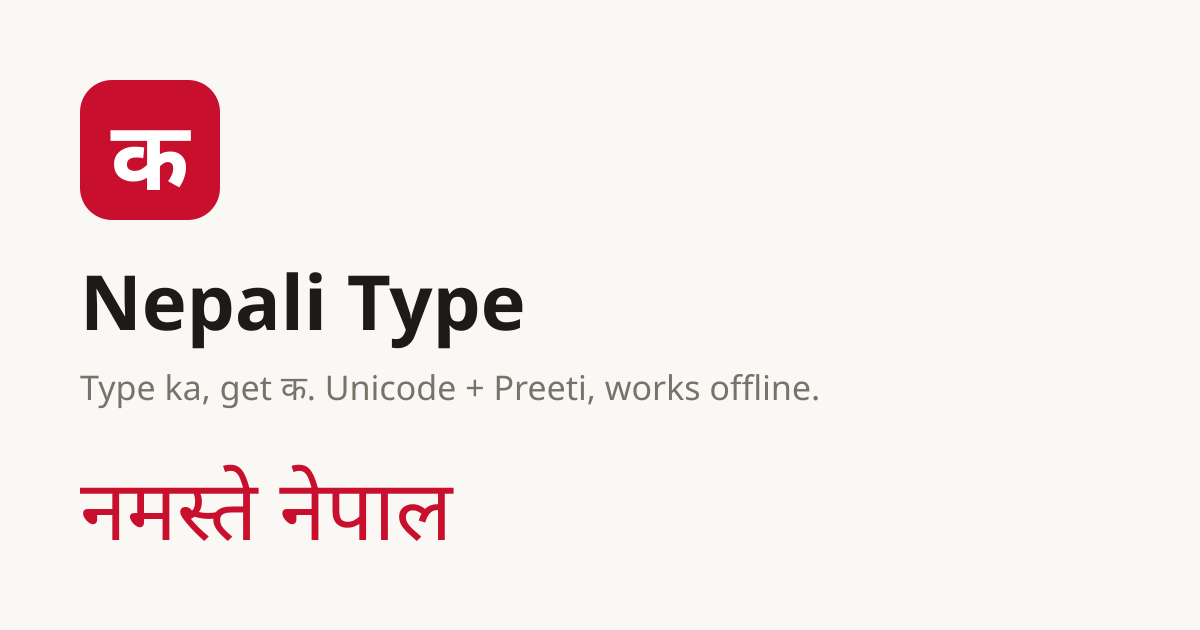
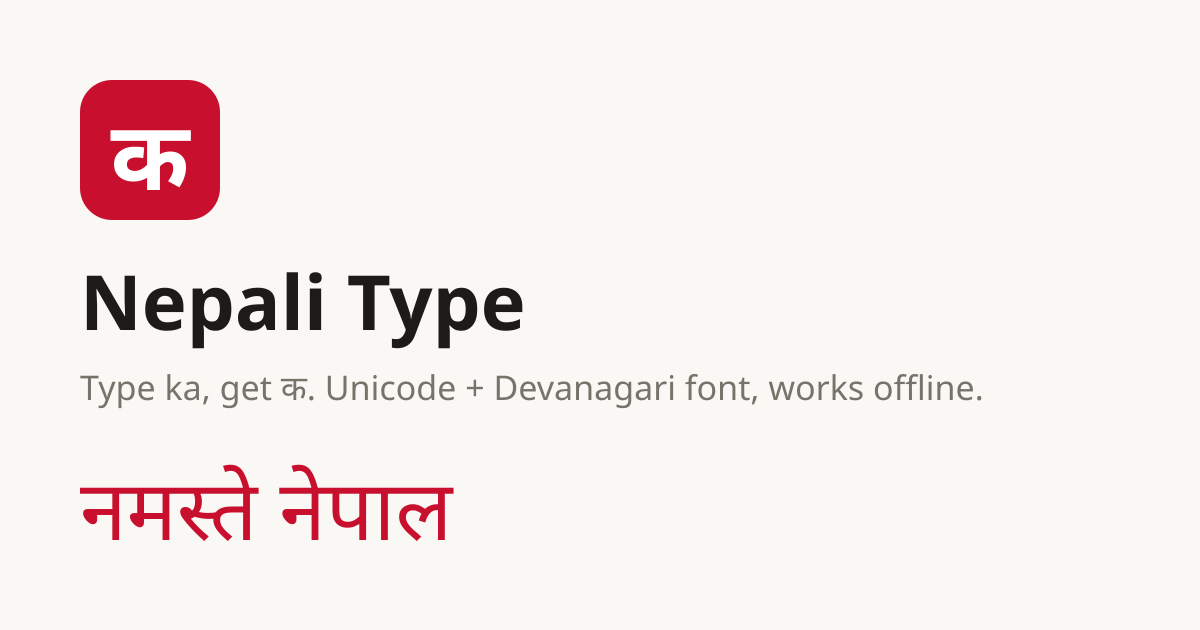
Add movable cursor to font keys mode; call it Devanagari font

Changed region(s): [[0.4008, 0.573, 0.8325, 0.6635]]

diff --git a/src/scripts/app.js b/src/scripts/app.js
@@ -20,6 +20,8 @@ const buzz=matchMedia("(pointer:coarse)").matches&&navigator.vibrate?()=>{try{na
 let mode=store.get("nw-mode")==="preeti"?"preeti":"roman";
 const fine=matchMedia("(pointer:fine)").matches;
 let buf=store.get("nw-buf")||"",held=false,shift=0;
+// Preeti mode cursor: an index into buf (the keystrokes), so text can be inserted anywhere
+let cur=buf.length;
 const out=$("#out"),rin=$("#rin"),info=$("#info"),sg=$("#sug");
 rin.value=store.get("nw-rom")||"";
 
@@ -36,31 +38,43 @@ function empty(t){const s=document.createElement("span");s.className="hint0";s.i
 let favs=[];try{favs=JSON.parse(store.get("nw-favs"))||[]}catch(e){}
 const saveFavs=()=>{store.set("nw-favs",JSON.stringify(favs));drawFavs();const n=$("#favn");n.classList.remove("bump");void n.offsetWidth;n.classList.add("bump")};
 // the word the Save button acts on: the last Unicode word typed
-const curWord=()=>(uni().trim().split(/\s+/).pop()||"").replace(/[।.,?!()]+$/,"");
+const curWord=()=>((mode==="preeti"?clean(conv(before())):uni()).trim().split(/\s+/).pop()||"").replace(/[।.,?!()]+$/,"");
 // a saved word goes back in as keystrokes for the current mode
 function putWord(f){
  if(mode==="roman"&&f.r){insert((/\S$/.test(rin.value.slice(0,rin.selectionStart))?" ":"")+f.r)}
- else if(mode==="preeti"){add((/\S$/.test(buf)?" ":"")+toPreeti(f.u))}
+ else if(mode==="preeti"){add((/\S$/.test(before())?" ":"")+toPreeti(f.u))}
  else cp(f.u);
 }
 function favChips(){favs.slice(0,12).forEach(f=>sg.appendChild(chip("f",esc(f.u),"★ saved",()=>putWord(f))))}
 
-function render(u){
+const CARET="<span class=caret></span>";
+function render(u,at=-1){
  // a stray Preeti m has no Unicode letter: show it marked instead of silently dropping it
- const h=dsp(u).split("m").map(esc).join(mode==="preeti"?"<span class=sm title='m only joins प उ भ त्र त्त (k p e q Q)'>m</span>":"m");
- out.innerHTML=h||(mode==="roman"?"Type English sounds above. <b>namaste</b> → नमस्ते":"Tap the keys below, or type on your keyboard as you would with the Preeti font.");
+ const part=x=>dsp(x).split("m").map(esc).join(mode==="preeti"?"<span class=sm title='m only joins प उ भ त्र त्त (k p e q Q)'>m</span>":"m");
+ const h=at<0?part(u):part(u.slice(0,at))+CARET+part(u.slice(at));
+ out.innerHTML=u?h:(mode==="roman"?"Type English sounds above. <b>namaste</b> → नमस्ते":"Tap the keys below, or type on your keyboard as you would with a Devanagari font in Word.");
  out.classList.toggle("e",!u);
  const c=clean(u).trim(),w=c?c.split(/\s+/).length:0;
  $("#cnt").textContent=c?w+(w>1?" words · ":" word · ")+[...c].length+" chars":"";
- $("#pre").textContent=preeti();
+ $("#pre").innerHTML=mode==="preeti"&&buf?esc(buf.slice(0,cur))+CARET+esc(buf.slice(cur)):esc(preeti());
  const cw=curWord(),on=!!cw&&favs.some(f=>f.u===cw);
  $("#fav").classList.toggle("on",on);$("#fav").setAttribute("aria-pressed",on);
 }
 
 // ---------- Preeti layout mode ----------
-const lastWord=()=>buf.split(/\s/).pop();
-function add(s){buf+=s;draw(s)}
-function tail(){let n=1;if(/[|«]$/.test(buf))n++;if(/[0iI]f$/.test(buf))n=2;return n}
+const before=()=>buf.slice(0,cur);
+const lastWord=()=>before().split(/\s/).pop();
+// replace `del` keystrokes before the cursor with `ins`
+function edit(del,ins){buf=buf.slice(0,cur-del)+ins+buf.slice(cur);cur+=ins.length-del}
+function add(s){edit(0,s);draw(s)}
+const moveTo=k=>{cur=Math.max(0,Math.min(buf.length,k));draw()};
+function tail(){const b=before();let n=1;if(/[|«]$/.test(b))n++;if(/[0iI]f$/.test(b))n=2;return n}
+// Where the cursor shows in the Unicode text: the longest typed prefix whose conversion starts the
+// whole text. Inside a reordered syllable (ि typed first, reph typed last) it falls back to the syllable start.
+function caretAt(raw){for(let k=cur;k>0;k--){const p=conv(buf.slice(0,k));if(raw.startsWith(p))return p.length}return 0}
+// the reverse, for a tap at Unicode offset `off`
+// ponytail: converts every prefix (O(n²)); fine for notes and letters, index syllables if texts get very long
+function caretFrom(raw,off){let best=0,bl=-1;for(let k=0;k<=buf.length;k++){const p=conv(buf.slice(0,k));if(p.length<=off&&p.length>=bl&&raw.startsWith(p)){bl=p.length;best=k}}return best}
 // where the ि key "l" must go: before the whole last conjunct, not just before its last letter
 function lpos(w){let st=w.length-Math.min(tail(),w.length);while(st>0&&isHalf(w[st-1]))st--;return st}
 function combos(){
@@ -71,25 +85,25 @@ function combos(){
 const SUG=[["ा","f"],["ि","*"],["ी","L"],["ु","'"],["ू",'"'],["े","]"],["ै","}"],["ो","f]"],["ौ","f}"],["ं","+"],["ँ","F"],["ः","M"],["्र","|"],["र्","{"],["ृ","["]];
 function drawPreeti(last){
  const raw=conv(buf),w=lastWord();
- render(raw);
+ render(raw,caretAt(raw));
  let msg="";
  if(last){
   if(last==="m"){const ok=!/m$/.test(raw);msg=ks("m")+(ok?" → <b>hook joined</b>":" → <b>hook only.</b> Joins after <kbd>k</kbd>प <kbd>p</kbd>उ <kbd>e</kbd>भ <kbd>q</kbd>त्र <kbd>Q</kbd>त्त. For म type <kbd>d</kbd>")}
   else msg=ks(last)+" → <b class=d>"+(last.length>1?sign(clean(conv(last))):lab(last))+"</b>";
   if(w)msg+=" &nbsp;word <b class=d>"+dsp(clean(conv(w)))+"</b>";
  }
- info.innerHTML=msg||"Each key is one Preeti glyph, just like in Word or LibreOffice";
+ info.innerHTML=msg||"Each key is one glyph, like in Word · tap the text or drag <b>space</b> to move the cursor";
  sg.innerHTML="";
  // dictionary: finish the word being typed
  const wu=w?clean(conv(w)):"";
- if(/^[\u0900-\u097f]+$/.test(wu))dict.prefix(wu).forEach(x=>sg.appendChild(chip("w",x.u,ks(toPreeti(x.u).slice(0,8)),()=>{buf=buf.slice(0,buf.length-w.length)+toPreeti(x.u)+" ";draw()})));
+ if(/^[\u0900-\u097f]+$/.test(wu))dict.prefix(wu).forEach(x=>sg.appendChild(chip("w",x.u,ks(toPreeti(x.u).slice(0,8)),()=>{edit(w.length,toPreeti(x.u)+" ");draw()})));
  combos().forEach(c=>sg.appendChild(chip("c",dsp(c.r),ks(c.n),()=>add(c.n))));
- if(/[क-ह]$/.test(clean(raw))){
+ if(/[क-ह]$/.test(clean(conv(before())))){
   const st=lpos(w);
   SUG.forEach(([d,k])=>{
    const r=clean(k==="*"?conv(w.slice(0,st)+"l"+w.slice(st)):conv(w+k));
    sg.appendChild(chip("",dsp(r),k==="*"?"<kbd>l</kbd> first":ks(k),()=>{
-    if(k==="*"){const o=buf.length-w.length+st;buf=buf.slice(0,o)+"l"+buf.slice(o);draw("l")}else add(k)}))})}
+    if(k==="*"){const o=cur-w.length+st;buf=buf.slice(0,o)+"l"+buf.slice(o);cur++;draw("l")}else add(k)}))})}
  if(!sg.children.length){favChips();if(!sg.children.length)empty("Suggestions appear here after a letter")}
 }
 
@@ -125,14 +139,15 @@ function drawRoman(){
 // ---------- shared ----------
 function draw(last){
  if(mode==="roman"){drawRoman();store.set("nw-rom",rin.value)}else{drawPreeti(last);store.set("nw-buf",buf)}
- // keep the newest text in view while tapping keys (not while the text box is being edited)
- const top=$("#top");if(document.activeElement!==rin)top.scrollTop=top.scrollHeight;
+ // keep the cursor (Preeti) or the newest text (Romanized) in view, but never fight the text box
+ const c=mode==="preeti"&&out.querySelector(".caret");
+ if(c)c.scrollIntoView({block:"nearest"});else if(document.activeElement!==rin){const top=$("#top");top.scrollTop=top.scrollHeight}
 }
 function setMode(m){
  mode=m;store.set("nw-mode",m);document.body.classList.toggle("roman",m==="roman");
  rin.hidden=m!=="roman";
- const mb=$("#mode");mb.innerHTML=m==="roman"?"⌨ <span class=tx>Preeti keys</span><span class=d aria-hidden=true>&nbsp;s→क</span>":"ABC";
- mb.setAttribute("aria-label",m==="roman"?"Switch to Preeti keys":"Switch to Romanized");mb.title=mb.getAttribute("aria-label");
+ const mb=$("#mode");mb.innerHTML=m==="roman"?"⌨ <span class=tx>Font keys</span><span class=d aria-hidden=true>&nbsp;s→क</span>":"ABC";
+ mb.setAttribute("aria-label",m==="roman"?"Switch to Devanagari font keys":"Switch to Romanized");mb.title=mb.getAttribute("aria-label");
  document.querySelectorAll("[data-mode]").forEach(e=>e.hidden=e.dataset.mode!==m);
  draw();if(m==="roman"&&fine)rin.focus();
 }
@@ -154,7 +169,12 @@ R.forEach(([a],ri)=>{const r=document.createElement("div");r.className="row";
  [...a].forEach(c=>r.appendChild(keys[c]=key("d","<i></i><span></span>","",b=>{add(b._c);if(shift===1)shift=0;layer()})));
  kb.appendChild(r)});
 // space, backspace and enter share the toolbar row, after the mode switch, chart and saved keys
-$("#bar").append(key("sp pk","space","Space",()=>add(" ")),key("w pk","⌫","Backspace",()=>{buf=buf.slice(0,-1);draw()}),key("w pk","↵","Enter",()=>add("\n")));
+// dragging the space bar moves the cursor, as on Android keyboards; a plain tap types a space
+const sp=key("sp pk","space","Space (drag to move the cursor)",()=>{if(!sp._moved)add(" ")});
+sp.onpointerdown=e=>{sp._x=e.clientX;sp._moved=false;sp.setPointerCapture(e.pointerId)};
+sp.onpointermove=e=>{if(sp._x==null)return;const d=Math.trunc((e.clientX-sp._x)/14);if(d){sp._x+=d*14;sp._moved=true;moveTo(cur+d)}};
+sp.onpointerup=sp.onpointercancel=()=>{sp._x=null};
+$("#bar").append(sp,key("w pk","⌫","Backspace",()=>{if(cur){edit(1,"");draw()}}),key("w pk","↵","Enter",()=>add("\n")));
 layer();
 const flash=c=>{const b=keys[SH[c]||c];if(b){b.classList.add("p");setTimeout(()=>b.classList.remove("p"),120)}};
 document.addEventListener("keydown",e=>{
@@ -162,7 +182,10 @@ document.addEventListener("keydown",e=>{
  if(e.key==="Shift"){held=true;layer();return}
  if(e.ctrlKey||e.metaKey||e.altKey)return;
  const t=e.target.tagName;if(t==="INPUT"||t==="TEXTAREA"||mode!=="preeti"||document.body.classList.contains("open"))return;
- if(e.key==="Backspace"){e.preventDefault();buf=buf.slice(0,-1);draw();return}
+ if(e.key==="Backspace"){e.preventDefault();if(cur){edit(1,"");draw()}return}
+ if(e.key==="Delete"){e.preventDefault();buf=buf.slice(0,cur)+buf.slice(cur+1);draw();return}
+ const mv={ArrowLeft:cur-1,ArrowRight:cur+1,Home:before().lastIndexOf("\n")+1,End:(i=>i<0?buf.length:i)(buf.indexOf("\n",cur))}[e.key];
+ if(mv!==undefined){e.preventDefault();moveTo(mv);return}
  if(e.key==="Enter"){e.preventDefault();add("\n");return}
  if(e.key===" "){e.preventDefault();add(" ");return}
  if(e.key.length===1&&(P[e.key]!==undefined||e.key==="m")){e.preventDefault();flash(e.key);add(e.key)}
@@ -185,8 +208,8 @@ function cp(s){
 $("#c1").onclick=()=>cp(uni());$("#c2").onclick=()=>cp(preeti());
 $("#cl").onclick=()=>{
  const was=mode==="roman"?rin.value:buf;if(!was)return;
- if(mode==="roman")rin.value="";else buf="";draw();
- toast("Cleared","Undo",()=>{if(mode==="roman")rin.value=was;else buf=was;draw()})};
+ if(mode==="roman")rin.value="";else buf="",cur=0;draw();
+ toast("Cleared","Undo",()=>{if(mode==="roman")rin.value=was;else buf=was,cur=was.length;draw()})};
 $("#fav").onclick=()=>{
  const u=curWord();if(!u){toast("Type a word first");return}
  const i=favs.findIndex(f=>f.u===u);
@@ -201,6 +224,17 @@ const isDark=()=>document.documentElement.dataset.theme?document.documentElement
 const syncTheme=()=>{themeMeta.content=isDark()?"#121212":"#faf8f5"};
 $("#theme").onclick=()=>{const t=isDark()?"light":"dark";document.documentElement.dataset.theme=t;store.set("nw-theme",t);syncTheme()};
 matchMedia("(prefers-color-scheme: dark)").addEventListener("change",syncTheme);syncTheme();
+
+// tap the Unicode text or the Preeti line to put the cursor there
+function tapOffset(el,e){
+ const p=document.caretPositionFromPoint?.(e.clientX,e.clientY),r=p?{n:p.offsetNode,o:p.offset}:(x=>x&&{n:x.startContainer,o:x.startOffset})(document.caretRangeFromPoint?.(e.clientX,e.clientY));
+ if(!r||r.n.nodeType!==3||!el.contains(r.n))return null;
+ let off=0;const tw=document.createTreeWalker(el,NodeFilter.SHOW_TEXT);
+ // count text before the tap, skipping the display-only ZWJ that dsp() adds
+ for(let n;(n=tw.nextNode());){off+=(n===r.n?n.data.slice(0,r.o):n.data).replace(/\u200d/g,"").length;if(n===r.n)break}
+ return off}
+out.addEventListener("click",e=>{if(mode!=="preeti"||!buf)return;const o=tapOffset(out,e);if(o!=null)moveTo(caretFrom(conv(buf),o))});
+$("#pre").addEventListener("click",e=>{if(mode!=="preeti"||!buf)return;const o=tapOffset($("#pre"),e);if(o!=null)moveTo(o)});
 
 // top bar can be hidden for more room; remembered
 const setHd=on=>{document.documentElement.classList.toggle("hd-off",!on);store.set("nw-hd",on?"1":"0")};
@@ -245,9 +279,9 @@ note("v","Tap to type. Keys shown as <kbd>⇧x</kbd> need Shift.");chips("v","c 
 chips("c",CN);
 note("h","Half letters join the next letter: <kbd>⇧s</kbd> then <kbd>t</kbd> makes क्त.");chips("h","S V U R H T Y W G K A E D N J Z i I : X ~","h");
 chips("j","St s| So Ug Gt Gb ;t ;y ;g Hh B Bj Kt k| k|m Dk Da Nn Q 4 2 R5 > cy{ wd{ sd{ k{ /");
-note("s","Extra Preeti glyphs. In Windows apps they need Alt codes; here you just tap them.");
+note("s","Extra font glyphs. In Windows apps they need Alt codes; here you just tap them.");
 grid("s",[["ª","0170"],["«","0171"],["¿","0191"],["Í","0205"],["Ë","0203"],["ß","0223"],["§","0167"],["¶","0182"],["•","0149"],["å","0229"],["¢","0162"],["Ø","0216"]].map(([c,a])=>["<span class=d>"+dsp(conv(c))+"</span><kbd>Alt+"+a+"</kbd>",()=>add(c)]));
-note("s","Unicode-only signs with no Preeti key.");
+note("s","Unicode-only signs with no font key.");
 grid("s",["ॐ","ऽ"].map(c=>["<span class=d>"+c+"</span><kbd>Unicode</kbd>",()=>add(c)]));
 chips("n","1 2 3 4 5 6 7 8 9 0f ! @ # $ % ^ & * ( ) . , -");
 note("n","Words to try:");chips("n","g]kfn gd:t] ef/t ldq cy{ wd{ k|mfO{ sf7df08f}+");
@@ -256,7 +290,7 @@ const cell=(k,i)=>k==="/"&&i===4?"?":k==="/"&&i===5?"¿":MK[i][0]+k+MK[i][1];
 $("#p-b").innerHTML="<p class=nt>Every letter with every vowel sign. Tap one to type it.</p><div class=vt>"+CN.split(" ").map(k=>
  "<div class=vr><b class=d>"+clean(conv(k))+"</b><div class=vc>"+MK.map((_,i)=>{const c=cell(k,i);return"<button data-k=\""+esc(c)+"\"><span class=d>"+clean(conv(c))+"</span><kbd>"+esc(c)+"</kbd></button>"}).join("")+"</div></div>").join("")+"</div>";
 $("#p-b").onclick=e=>{const b=e.target.closest("[data-k]");if(b)add(b.dataset.k)};
-$("#p-i").innerHTML="<ul class=nt><li><b>Romanized</b>: type English sounds and get Unicode plus the matching Preeti keystrokes. Works with any phone keyboard. Blue suggestions are dictionary words: tap one (or press <kbd>Tab</kbd>) to use it.</li><li>Switch modes with the <b>ABC / ⌨</b> key at the bottom left. <b>Chart</b> and <b>★ Saved</b> sit next to it. Hide the top bar with <b>⌃</b> for more room.</li><li><b>Preeti keys</b> works like typing with the Preeti font in Word or LibreOffice: each key is one glyph.</li><li><b>★ Save</b> keeps the last word on this device. Saved words appear in the suggestion bar when you start a new word.</li><li><b>⇧</b> Shift: tap once for the next key, twice to lock, three times to release. On a physical keyboard just hold Shift.</li><li><b>Blue keys</b> are half letters. They join with the next letter to make a conjunct.</li><li><b>ि</b> is typed before the letter or conjunct (<kbd>l</kbd>, then the letter). It is placed correctly for you.</li><li><b>Reph र्</b> is typed after the letter it sits over: <kbd>c</kbd><kbd>y</kbd><kbd>⇧[</kbd> gives अर्थ.</li><li><b>m</b> is not a letter. In the Preeti font it is a hook that changes the letter before it: <kbd>k</kbd><kbd>m</kbd> फ, <kbd>p</kbd><kbd>m</kbd> ऊ, <kbd>e</kbd><kbd>m</kbd> झ, <kbd>q</kbd><kbd>m</kbd> क्र, <kbd>Q</kbd><kbd>m</kbd> क्त. Anywhere else it shows as a red <span class=sm>m</span> and is left out when you copy. For म type <kbd>d</kbd>.</li><li><b>0f</b>, <b>if</b> and <b>If</b> are single letters (ण, ष, क्ष).</li><li>The Preeti layout assumes US QWERTY.</li><li>Install it with the <b>Install</b> button (Chrome, Edge, Android) or Share → Add to Home Screen (iPhone). It works offline.</li></ul>";
+$("#p-i").innerHTML="<ul class=nt><li><b>Romanized</b>: type English sounds and get Unicode plus the matching Devanagari font keystrokes. Works with any phone keyboard. Blue suggestions are dictionary words: tap one (or press <kbd>Tab</kbd>) to use it.</li><li>Switch modes with the <b>ABC / ⌨</b> key at the bottom left. <b>Chart</b> and <b>★ Saved</b> sit next to it. Hide the top bar with <b>⌃</b> for more room.</li><li><b>Font keys</b> works like typing with a Devanagari font in Word or LibreOffice: each key is one glyph. It uses the <b>Preeti</b> layout, the most widely used one, so the copied font text shows correctly in Preeti and fonts that share its layout.</li><li><b>Move the cursor</b> by tapping the text, dragging the space bar, or with the arrow keys. Typing and ⌫ work at the cursor.</li><li><b>★ Save</b> keeps the last word on this device. Saved words appear in the suggestion bar when you start a new word.</li><li><b>⇧</b> Shift: tap once for the next key, twice to lock, three times to release. On a physical keyboard just hold Shift.</li><li><b>Blue keys</b> are half letters. They join with the next letter to make a conjunct.</li><li><b>ि</b> is typed before the letter or conjunct (<kbd>l</kbd>, then the letter). It is placed correctly for you.</li><li><b>Reph र्</b> is typed after the letter it sits over: <kbd>c</kbd><kbd>y</kbd><kbd>⇧[</kbd> gives अर्थ.</li><li><b>m</b> is not a letter. In the font it is a hook that changes the letter before it: <kbd>k</kbd><kbd>m</kbd> फ, <kbd>p</kbd><kbd>m</kbd> ऊ, <kbd>e</kbd><kbd>m</kbd> झ, <kbd>q</kbd><kbd>m</kbd> क्र, <kbd>Q</kbd><kbd>m</kbd> क्त. Anywhere else it shows as a red <span class=sm>m</span> and is left out when you copy. For म type <kbd>d</kbd>.</li><li><b>0f</b>, <b>if</b> and <b>If</b> are single letters (ण, ष, क्ष).</li><li>The font layout assumes US QWERTY.</li><li>Install it with the <b>Install</b> button (Chrome, Edge, Android) or Share → Add to Home Screen (iPhone). It works offline.</li></ul>";
 const openSheet=id=>{document.body.classList.add("open");show(id)};
 $("#chart").onclick=()=>{buzz();openSheet(mode==="roman"?"r":"v")};$("#saved").onclick=()=>{buzz();openSheet("f")};
 $("#x").onclick=$("#bd").onclick=()=>document.body.classList.remove("open");

diff --git a/README.md b/README.md
@@ -5,13 +5,13 @@ Type Nepali the easy way, in the browser, on desktop or Android. Works offline a
 **Live:** https://nepali-type.chandanshakya.com.np (also at https://nepali-type.pages.dev)
 
 - **Romanized mode:** type how it sounds. `namaste` → नमस्ते, `kaa` → का, `kt` → क्त. Works with any phone keyboard.
-- **Built-in dictionary:** about 800 common words, offline. Loose spellings find the right word (`nepal` → नेपाल, `bikas` → विकास). Tap the blue suggestion or press <kbd>Tab</kbd>. In Preeti mode it finishes the word you are typing.
-- **Preeti keys mode:** the classic Preeti layout, keystroke for keystroke, as it behaves in Word or LibreOffice with the Preeti font. Comes with an on-screen keyboard.
-- **Both outputs at once:** every mode shows Unicode Devanagari and the matching Preeti keystrokes. Copy either one.
+- **Built-in dictionary:** about 800 common words, offline. Loose spellings find the right word (`nepal` → नेपाल, `bikas` → विकास). Tap the blue suggestion or press <kbd>Tab</kbd>. In font keys mode it finishes the word you are typing.
+- **Font keys mode:** the classic Devanagari font layout, keystroke for keystroke, as it behaves in Word or LibreOffice. It uses the Preeti layout, the most widely used legacy Devanagari font. Comes with an on-screen keyboard and a movable cursor: tap the text, drag the space bar, or use the arrow keys to insert anywhere.
+- **Both outputs at once:** every mode shows Unicode Devanagari and the matching Devanagari font keystrokes. Copy either one.
 - **Live hints:** the bar above the keyboard shows what each key did and what you can type next.
 - **Keyboard-style layout:** the mode switch, Chart and ★ Saved sit in the bottom row next to space. The top bar can be hidden.
 - **Saved words:** star a word and it stays on your device, ready in the suggestion bar and under **★ Saved**.
-- **Chart and cheatsheet:** a quick chart inside the app, plus a full printable cheatsheet at [`/chart/`](https://nepali-type.chandanshakya.com.np/chart/) with the Preeti keyboard, the vowel table, half letters and every Romanized spelling.
+- **Chart and cheatsheet:** a quick chart inside the app, plus a full printable cheatsheet at [`/chart/`](https://nepali-type.chandanshakya.com.np/chart/) with the font keyboard, the vowel table, half letters and every Romanized spelling.
 - **Light and dark themes**, an installable PWA, and offline use after the first visit.
 
 ## Romanized cheat sheet
@@ -27,9 +27,9 @@ Type Nepali the easy way, in the browser, on desktop or Android. Works offline a
 
 Two consonants in a row join (`kt` → क्त). `n` before k, kh, g or gh becomes ङ (`gangaa` → गङ्गा).
 
-## Preeti notes
+## Font keys notes
 
-- `m` is not a letter in Preeti. It is a hook that changes the letter before it: `km` फ, `pm` ऊ, `em` झ, `qm` क्र, `Qm` क्त. A stray `m` shows in red and is left out of copied text. For म type `d`.
+- `m` is not a letter in the font layout. It is a hook that changes the letter before it: `km` फ, `pm` ऊ, `em` झ, `qm` क्र, `Qm` क्त. A stray `m` shows in red and is left out of copied text. For म type `d`.
 - `l` (ि) is typed before its letter. `{` (reph र्) is typed after it. The converter puts both in the right Unicode order.
 - `0f`, `if`, `If` are single letters: ण, ष, क्ष.
 
